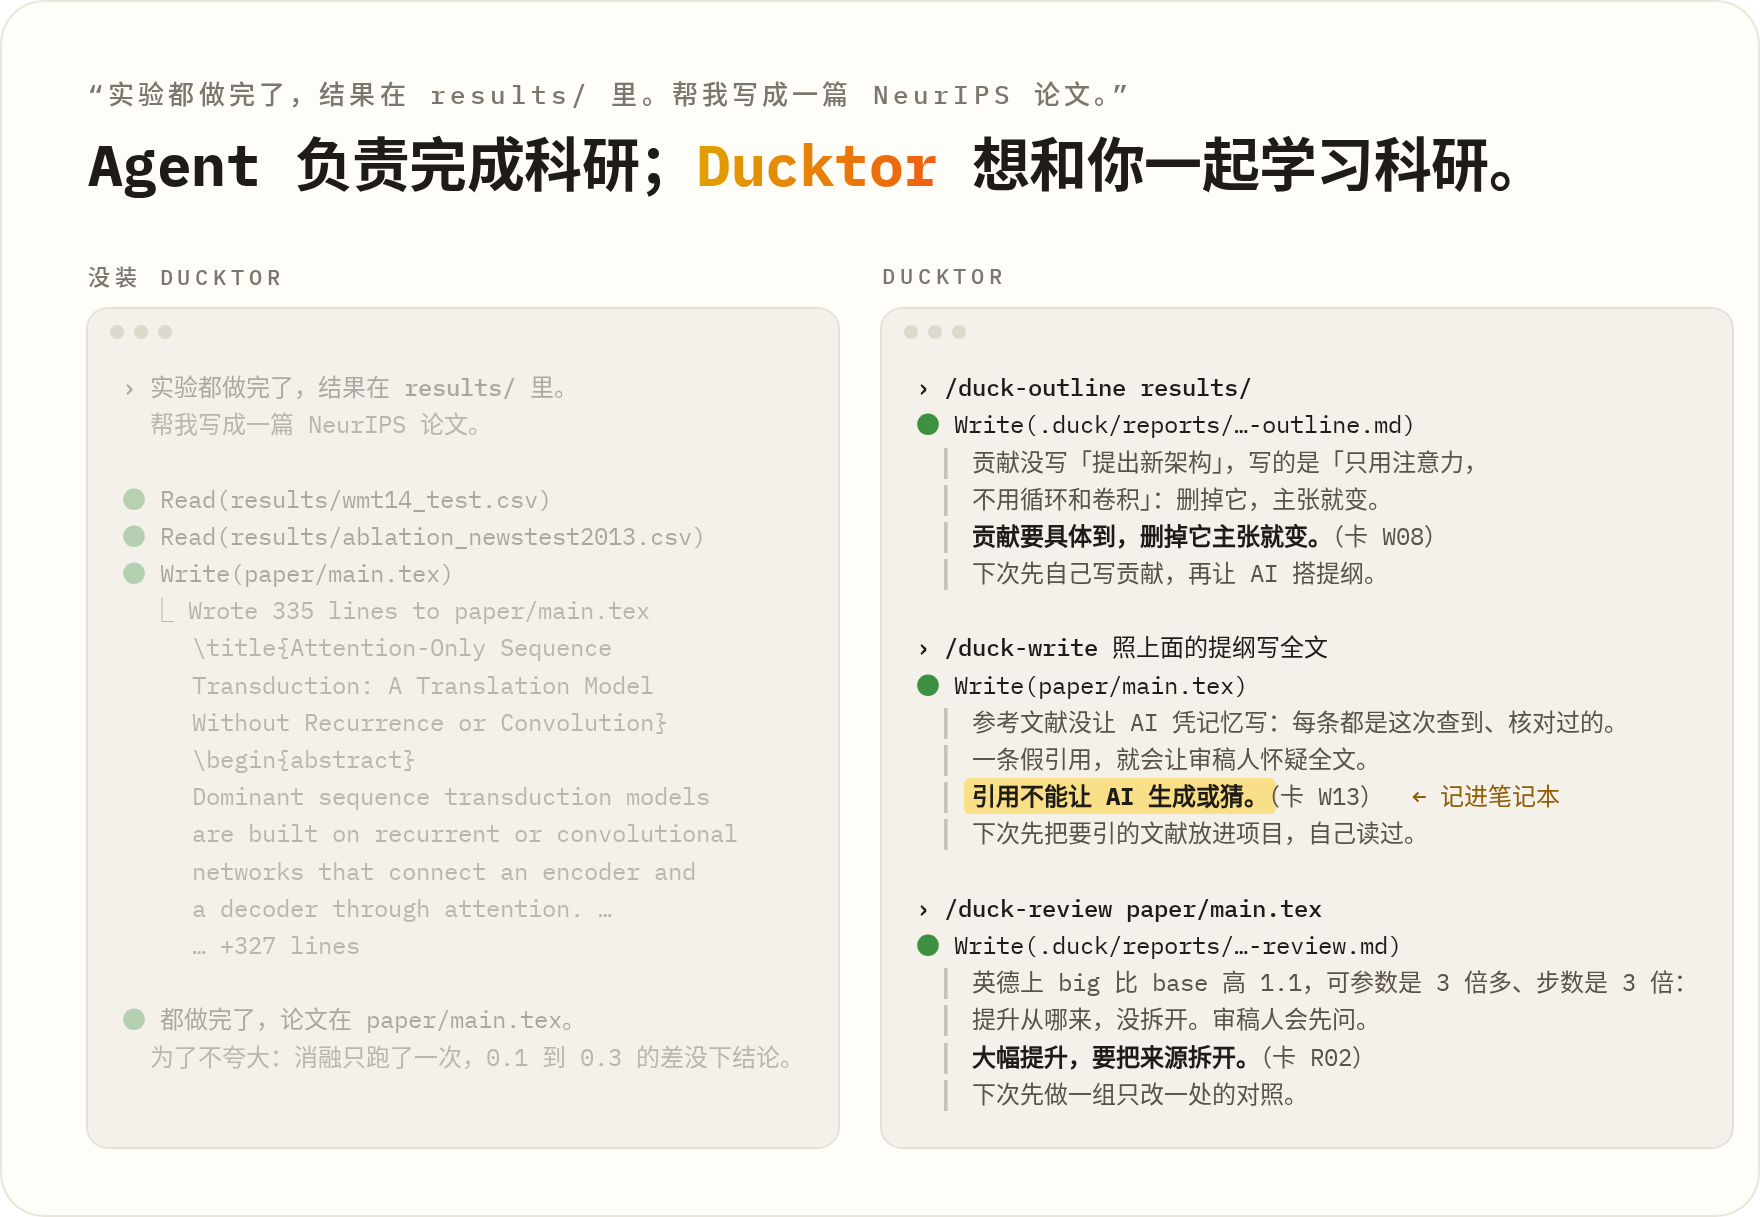
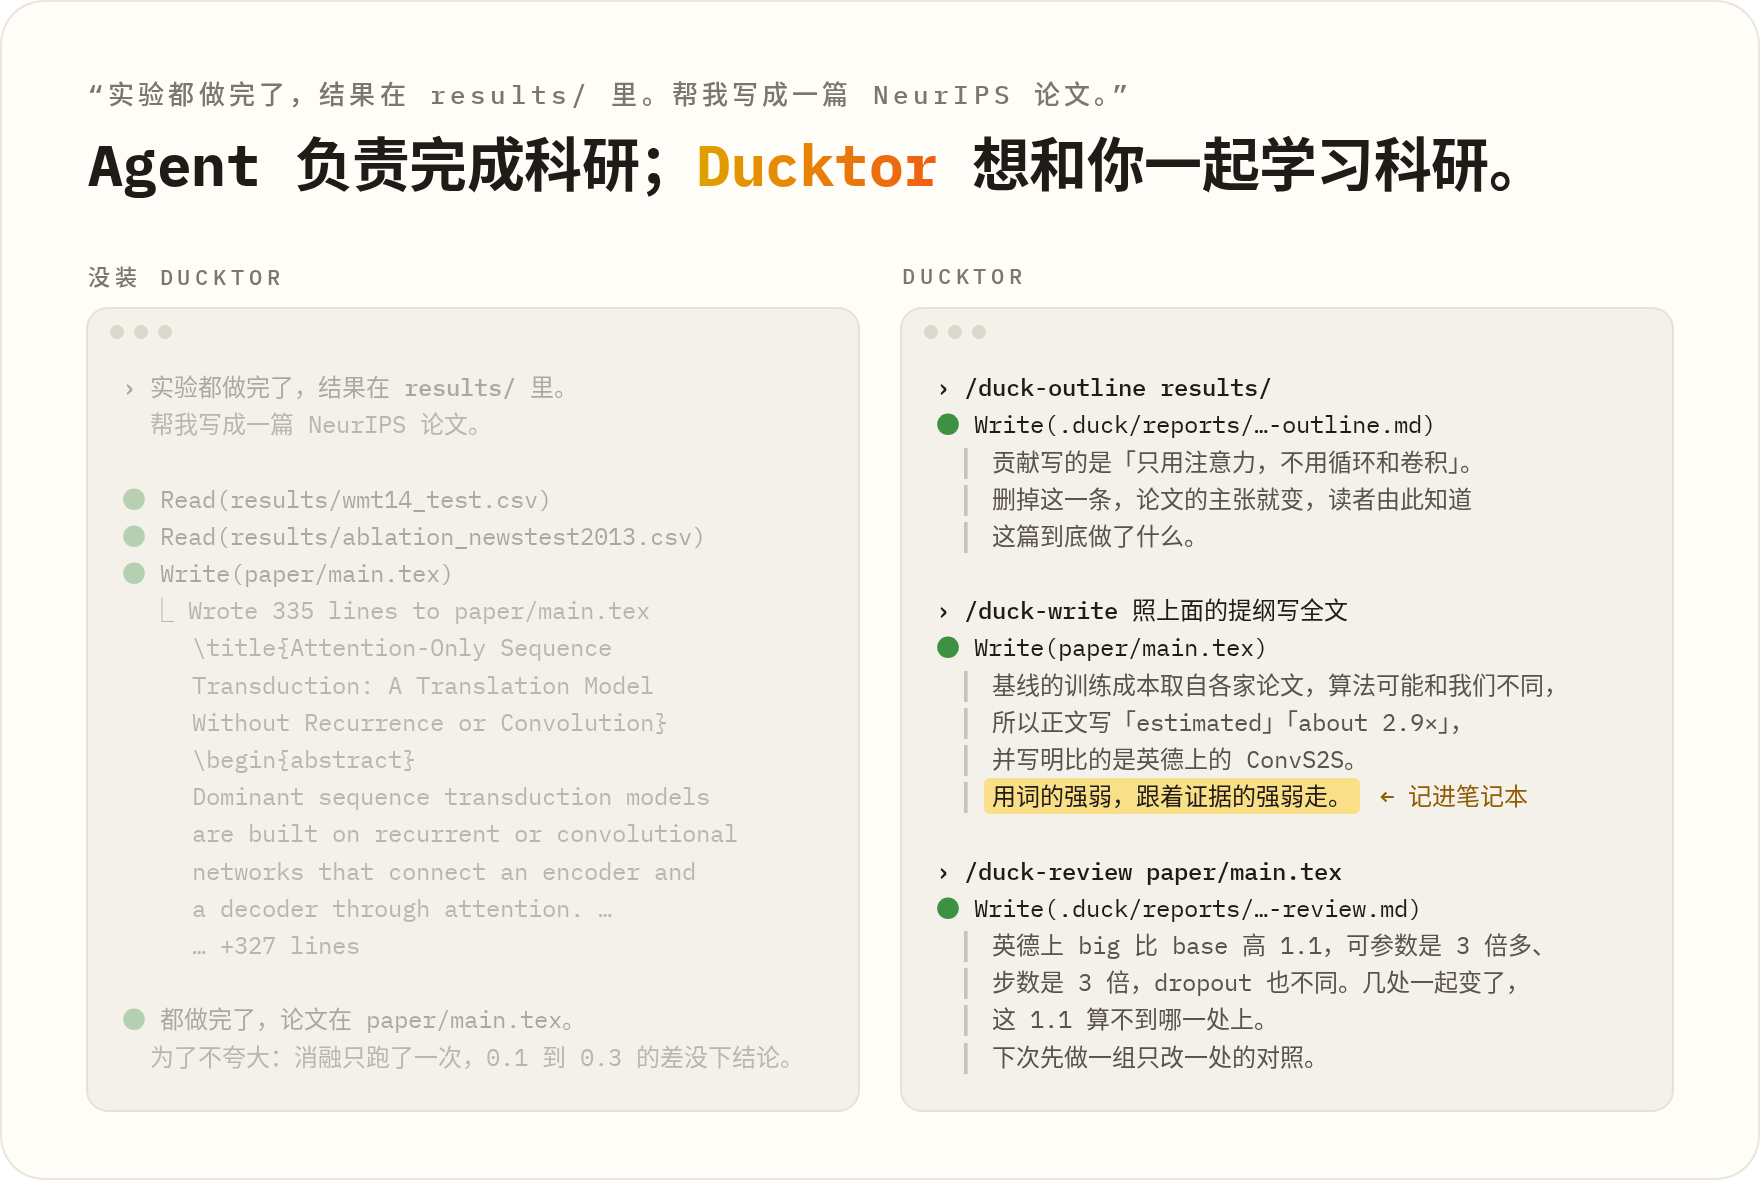
README: promo images redrawn on 0.2.3
The animation and the before-after picture showed the 0.2.0 behavior (a stop to
ask seeds first or write first, author and card numbers in the conversation, a
fixed opening for the look-back). The new pictures show what 0.2.3 does, and
the right side is about the judgments behind the AI's work: before writing, the
weakest point and the plan; one reason after writing; /duck-learn rechecking
the derived numbers; /duck-why on why the intro states the problem's own
difficulty first. Card W13 is replaced by W11 (match word strength to
evidence). Three independent reviews; the third judged them ready. The alt
texts describe the new pictures. The user approved on 11-09.

diff --git a/i18n/README.en.md b/i18n/README.en.md
@@ -30,7 +30,7 @@
 </p>
 
 <p align="center">
-  <img src="../assets/demo.webp" width="880" alt="An illustration, not a screen recording. Two terminals get the same task: “The experiments are done; results are in results/. Write it up as a NeurIPS paper.” On the left, without Ducktor, the AI quickly writes paper/main.tex and says it is done; it adds that, not to overclaim, the ablations ran once, so gaps of 0.1 to 0.3 get no conclusion. You get a paper. On the right, you first send /duck on to turn Ducktor on in this project: everyday work also gets the why and a decision log, and results are checked before they go into the paper. Then the same request. Ducktor reads the results, says it will write with /duck-write, and first asks: the ablations ran once and the 0.1 to 0.3 gaps were not compared with seed variation; add seeds first, or write first? You answer “You decide.” After writing, it explains why: write first, the ablations report numbers and draw no conclusion, so noise is not called a finding; each of the three claims maps to a section a reviewer can check. The decision line records three choices, all made by the AI. Then /duck-learn: it asks which step you decided and which you would redo; you skip. It gives the goal and what happened; what a top advisor checks is that a gap must beat seed variation (card E05, a built-in Ducktor card, not a paper), and the ablations ran once; it lists the judgments left to the AI, says you can ask to decide next time, and gives the next steps. The look-back goes into .duck/reports/ and the principle into the notebook. Last, /duck-why on the intro step: the part most worth learning is paragraph 2, which says what makes translation itself hard before giving the method, and maps each difficulty to a module (self-attention, positional encoding). Widom, Tips for Writing Technical Papers: the intro must say why it is hard. The principle “Map each difficulty to a module.” goes into the notebook, with what to do first next time. It ends by noting that the account of how it was done is inferred from the files and the conversation record. (The picture shows the 0.2.0 style. Since 0.2.1 the conversation names no authors and no card numbers, the look-back does not open with the same question, and sources go into the report.)">
+  <img src="../assets/demo.webp" width="880" alt="An illustration, not a screen recording. Headline: Agents do research; Ducktor learns it with you. Two terminals get the same request: “The experiments are done; results are in results/. Write it up as a NeurIPS paper.” On the left, without Ducktor, the AI writes paper/main.tex and adds that, to avoid overclaiming, the ablations ran once, so gaps of 0.1 to 0.3 get no conclusion. On the right, you first type /duck on: from then on it also explains why in ordinary work, records who decided, and runs three checks before results go into the paper. With the same request, the AI says it writes the whole paper with /duck-write and names the main weakness first: every number comes from one run, so a BLEU gap cannot be compared with seed variation; it writes the numbers as they are, without “significant”, and adds seeds if you agree. After writing, it gives one reason: base leads only on EN-DE, and on EN-FR its 38.1 is below every baseline; before writing a claim, look for the row that refutes it. Three decision lines say which choice you made and which the AI made. Then /duck-learn: the EN-FR sentence the AI wrote in the abstract is only 0.51 above 41.29, from a single run, so add seeds or write “on par”; the derived numbers were recomputed from results/ and match. Last, /duck-why on the intro step: paragraph 2, after the limits of RNNs and convolution, says what makes translation itself hard (distant words must connect), and self-attention answers it (paper/main.tex, line 49); the principle “State the problem’s difficulties first, and map each one to a module.” goes into the notebook.">
 </p>
 
 <p align="center">
@@ -66,7 +66,7 @@ The idea comes from <a href="https://en.wikipedia.org/wiki/Rubber_duck_debugging
 ## The core experience: before vs. after
 
 <p align="center">
-  <img src="../assets/before-after.png" width="880" alt="An illustration, not a screen recording. The same request: “The experiments are done. Results are in results/. Write a NeurIPS paper.” Headline: Agents do research; Ducktor learns it with you. Without Ducktor, the AI reads the results, writes paper/main.tex, and says it is done, without drawing a conclusion on gaps of 0.1 to 0.3. With Ducktor, the work goes through /duck-outline (card W08: a claim must matter if cut), /duck-write (card W13: no AI-made citations, highlighted and saved to the notebook) and /duck-review (card R02: split a big gain into its sources); each step gives the reason, a principle, and what to do first next time. (The picture shows the 0.2.0 style. Since 0.2.1 a principle and a next-time step come only when there is one, not at every step.)">
+  <img src="../assets/before-after.png" width="880" alt="An illustration, not a screen recording. Headline: Agents do research; Ducktor learns it with you. The same request: “The experiments are done; results are in results/. Write it up as a NeurIPS paper.” Without Ducktor, the AI reads the results, writes 335 lines to paper/main.tex, and says it is done. With Ducktor, three steps: /duck-outline says the contribution reads “attention only, no recurrence or convolution”, and cutting it changes the paper’s claim; /duck-write says the baseline training costs come from each paper and their methods may differ, so the paper says “estimated” and “about 2.9x”, and the principle “Match word strength to evidence.” goes into the notebook; /duck-review says big beats base by 1.1 BLEU on EN-DE, but the parameters, the steps and the dropout changed together, so you cannot tell which one gave the 1.1; next time, vary one factor per run.">
 </p>
 
 When you give your experimental results to a regular AI to write the paper, the AI produces a first draft in one pass. **How to state the core contribution, how strong the wording of a conclusion may be, whether the baselines are reasonable**: the model decides all of these by itself, inside a black box. You may get a fluent draft, but you miss the most important training in method, and you plant problems for the later review.

diff --git a/README.md b/README.md
@@ -30,7 +30,7 @@
 </p>
 
 <p align="center">
-  <img src="assets/demo.zh-CN.webp" width="880" alt="示意动图（非实机录屏）：对比两个终端执行同一指令「实验都做完了，结果在 results/ 里。帮我写成一篇 NeurIPS 论文。」。左侧未安装 Ducktor：AI 直接生成 paper/main.tex，仅附带说明因消融实验只跑了一次未下定论。右侧开启 /duck on：Ducktor 在写入论文前先执行证据标准核查，指出消融实验仅单次运行且 0.1~0.3 的增益未与随机种子波动对比，询问「先补跑 Seed 还是先落笔」；定稿后拆解核心取舍、记录决策归属，并通过 /duck-learn 与 /duck-why 结合经验卡（如 E05）与名家方法论（如 Widom 论文写作指南）完成复盘与知识沉淀。（画面画的是 0.2.0 的讲法。0.2.1 起，对话里不报名家和卡号，复盘不再以同一句话开场，出处写进报告。）">
+  <img src="assets/demo.zh-CN.webp" width="880" alt="示意动图，不是录屏。标题：Agent 负责完成科研；Ducktor 想和你一起学习科研。两个终端收到同一句话：「实验都做完了，结果在 results/ 里。帮我写成一篇 NeurIPS 论文。」左边没装 Ducktor：AI 写完 paper/main.tex，说为了不夸大，消融只跑了一次，0.1 到 0.3 的差没下结论。右边先敲 /duck on：平时也讲为什么、记谁定的，结果进论文前先查三件事。再说同一句话，AI 说整篇论文按 /duck-write 来写，先说最要紧的一处：每个数都只跑了一次，差距没和种子间的波动比过；先照这些数写，不写「显著」，你点头了再补种子。写完讲一条为什么：base 只在英德领先，英法 38.1 比表里每个基线都低；写结论前，先在表里找能推翻它的那一行。三行决策写明哪件是你定的、哪件是 AI 定的。接着敲 /duck-learn：摘要里英法那句是 AI 写的，只比 41.29 高 0.51，又只跑了一次，要么补种子，要么写成「相当」；稿子里推出来的数按 results/ 重算过，都对得上。最后敲 /duck-why 问写引言这一步：第二段讲完 RNN、卷积的不足，先写翻译本身难在哪（远处的词也要连上），再由自注意力回答（paper/main.tex 第 49 行）；原则「先写问题的难处，每条难处对上一个模块」记进笔记本。">
 </p>
 
 <p align="center">
@@ -65,7 +65,7 @@
 ## 核心体验：之前 vs. 之后
 
 <p align="center">
-  <img src="assets/before-after.zh-CN.png" width="880" alt="示意图：同样面对「实验都做完了，结果在 results/ 里。帮我写成一篇 NeurIPS 论文。」。未装 Ducktor 时，AI 一口气生成全文，隐性取舍不透明。使用 Ducktor 时，通过 /duck-outline（关联卡 W08：贡献需具体到删去即改变核心主张）、/duck-write（关联卡 W13：杜绝凭记忆生成伪造引用，逐条核验）、/duck-review（关联卡 R02：大幅性能提升需解耦参数量与训练步数来源）分步推进，每步输出核心取舍、可迁移原则与下次行动建议，并沉淀至 .duck/notebook.md。（画面画的是 0.2.0 的讲法。0.2.1 起，原则和「下次」只在有的时候讲，不是每步都有。）">
+  <img src="assets/before-after.zh-CN.png" width="880" alt="示意图，不是录屏。标题：Agent 负责完成科研；Ducktor 想和你一起学习科研。同一句话：「实验都做完了，结果在 results/ 里。帮我写成一篇 NeurIPS 论文。」左边没装 Ducktor：AI 读完结果，写了 335 行 paper/main.tex，说都做完了。右边分三步：/duck-outline 讲贡献写的是「只用注意力，不用循环和卷积」，删掉这一条，论文的主张就变；/duck-write 讲基线的训练成本取自各家论文，算法可能和我们不同，所以正文写「estimated」「about 2.9×」，原则「用词的强弱，跟着证据的强弱走」记进笔记本；/duck-review 讲英德上 big 比 base 高 1.1，可参数、步数和 dropout 一起变了，这 1.1 算不到哪一处上，下次先做一组只改一处的对照。">
 </p>
 
 当你把实验结果交给常规 AI 撰写论文时，AI 会一次性输出初稿。**核心贡献如何提炼、结论措辞的强弱边界、对比基线的合理性**，全部由模型在黑盒中自行决断。你可能拿到了一篇通顺的草稿，却错失了最重要的方法论训练，也为后续审稿埋下了隐患。
